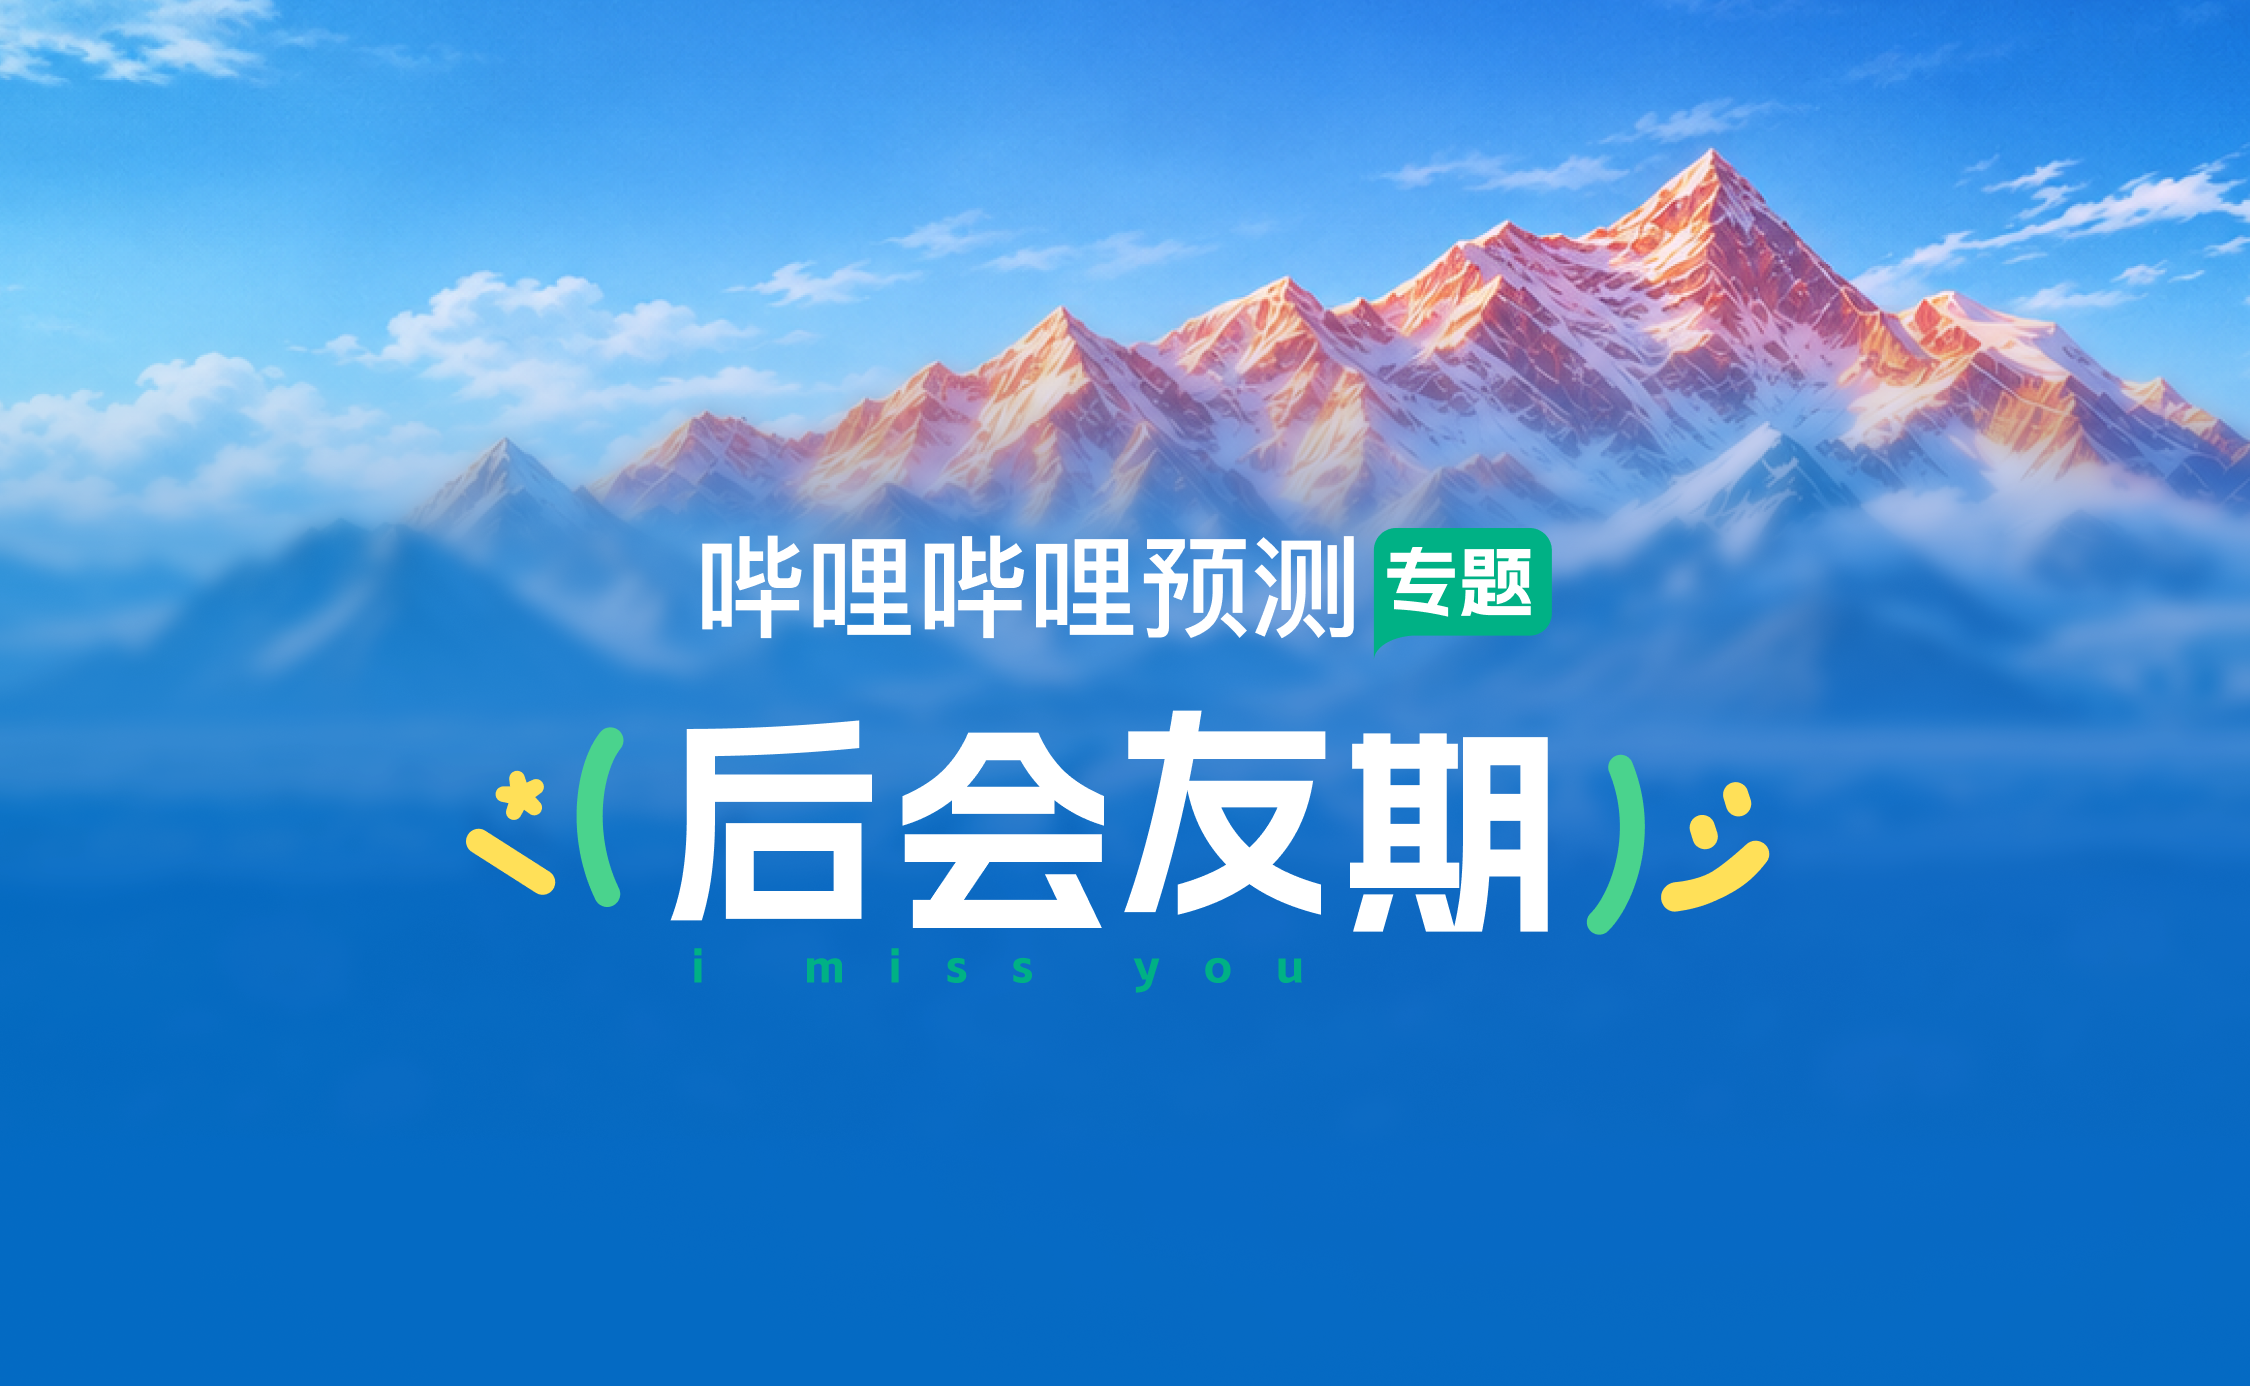
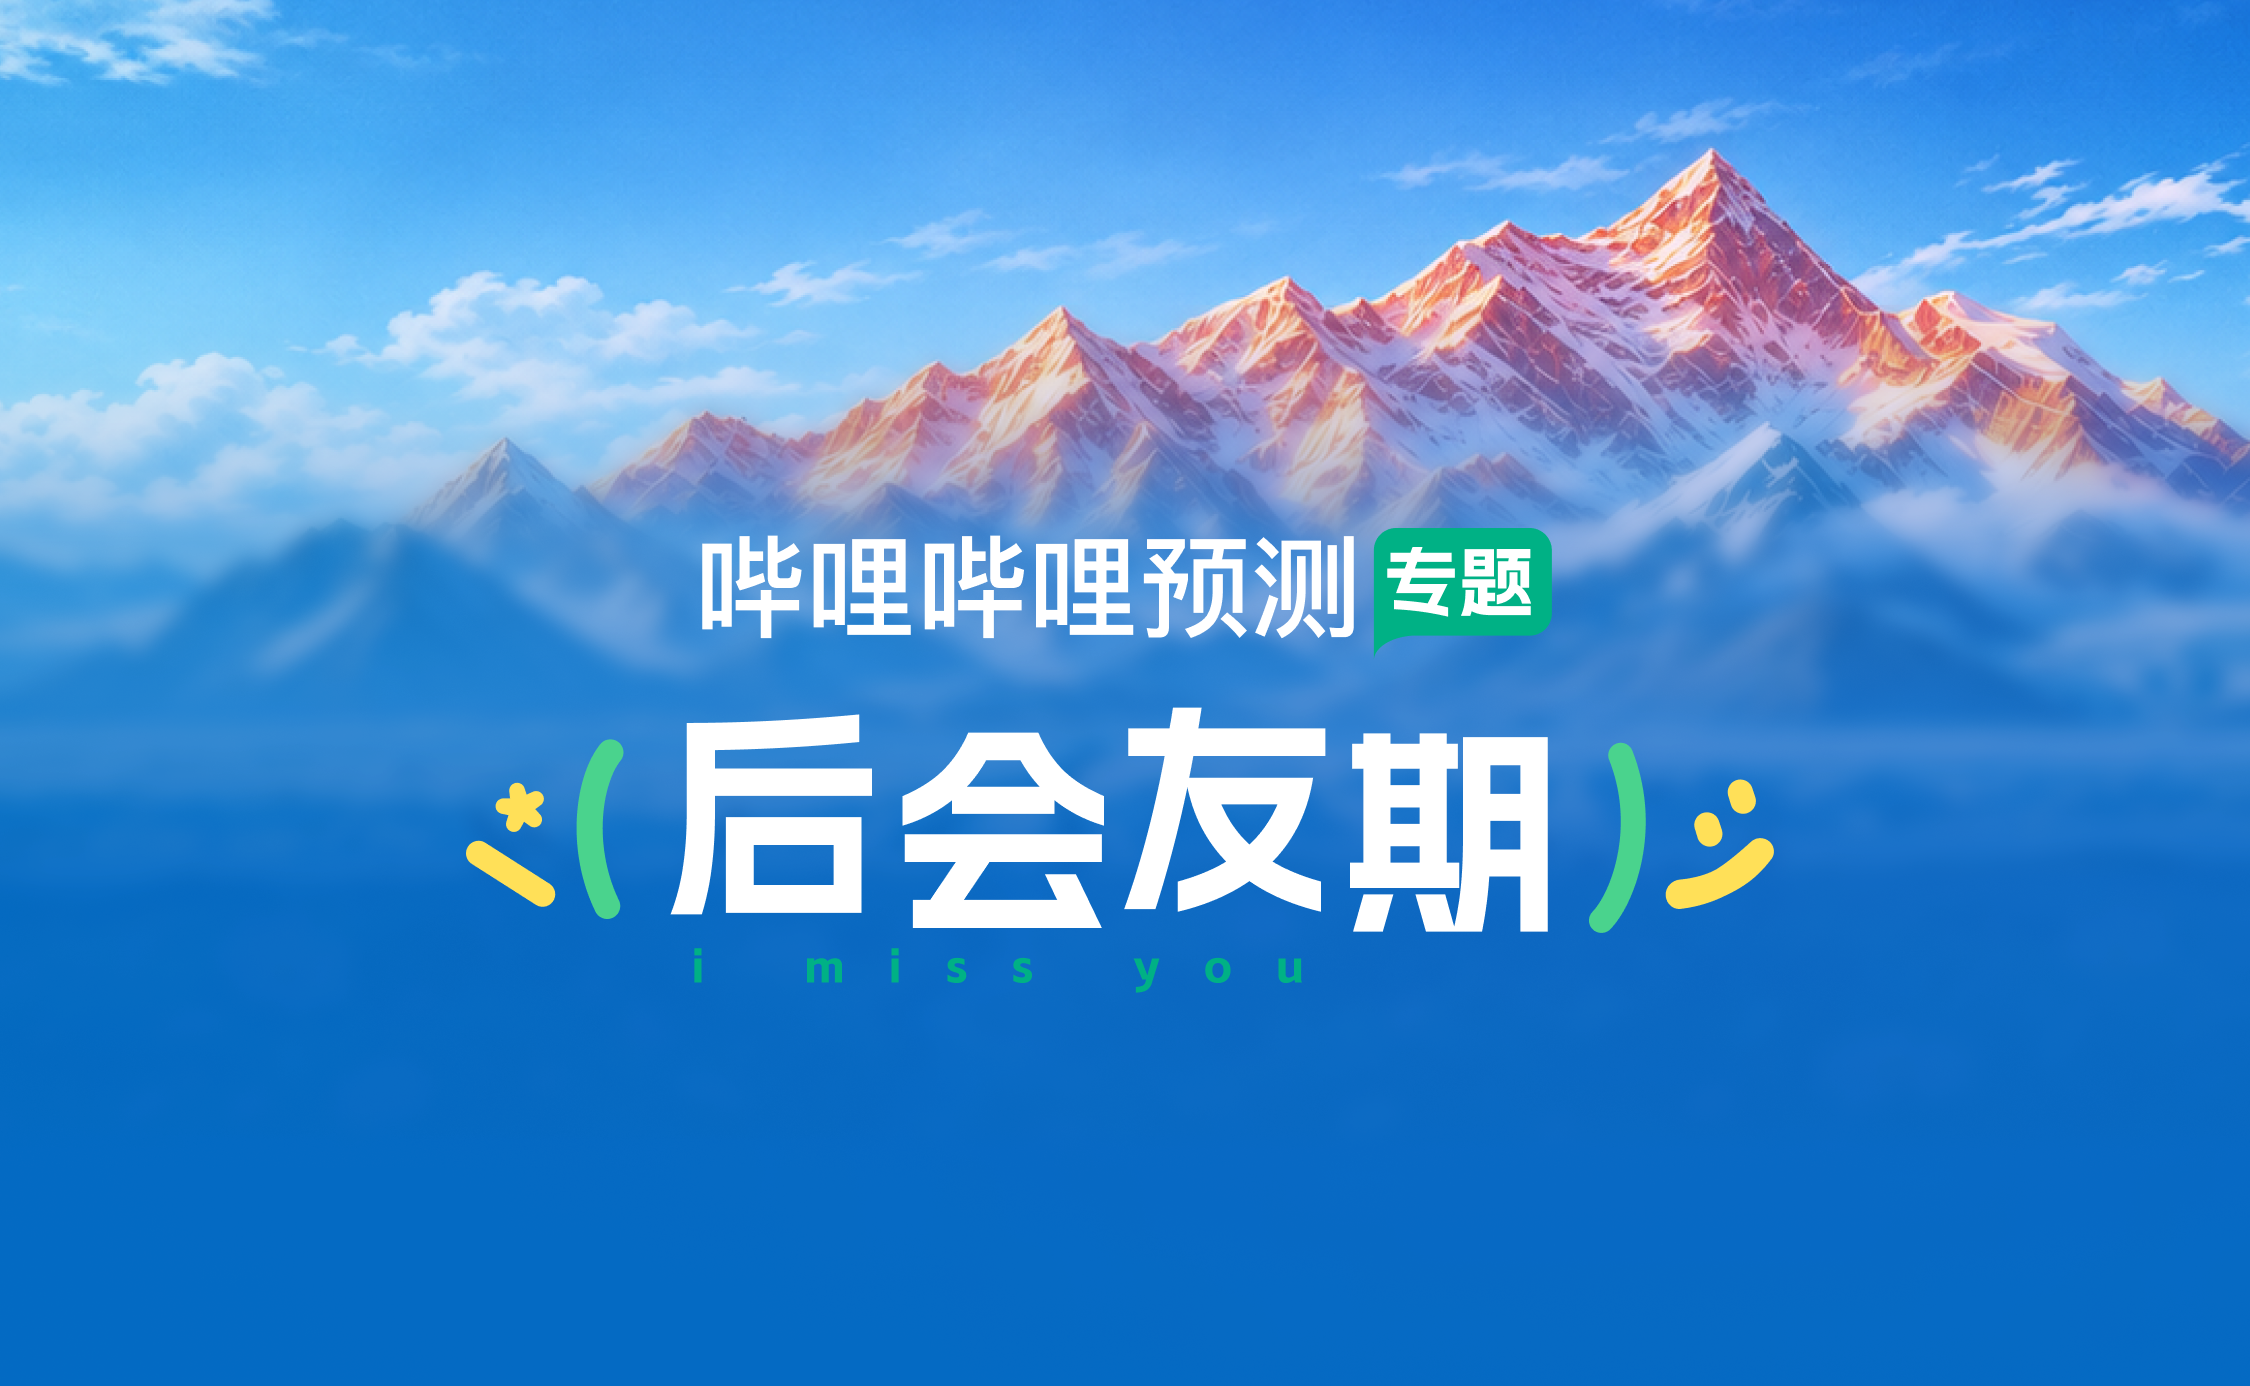
Update variant header artwork

diff --git a/variant/index.html b/variant/index.html
@@ -13,7 +13,7 @@
 <body>
   <main class="page">
     <header class="hero hero-with-artwork">
-      <img class="hero-artwork" src="./assets/variant-hero.png?v=37" width="2250" height="1386" alt="哔哩哔哩预测 · 后会友期专题">
+      <img class="hero-artwork" src="./assets/variant-hero.png?v=40" width="2250" height="1386" alt="哔哩哔哩预测 · 后会友期专题">
       <button class="back" aria-label="返回"></button>
     </header>
 
